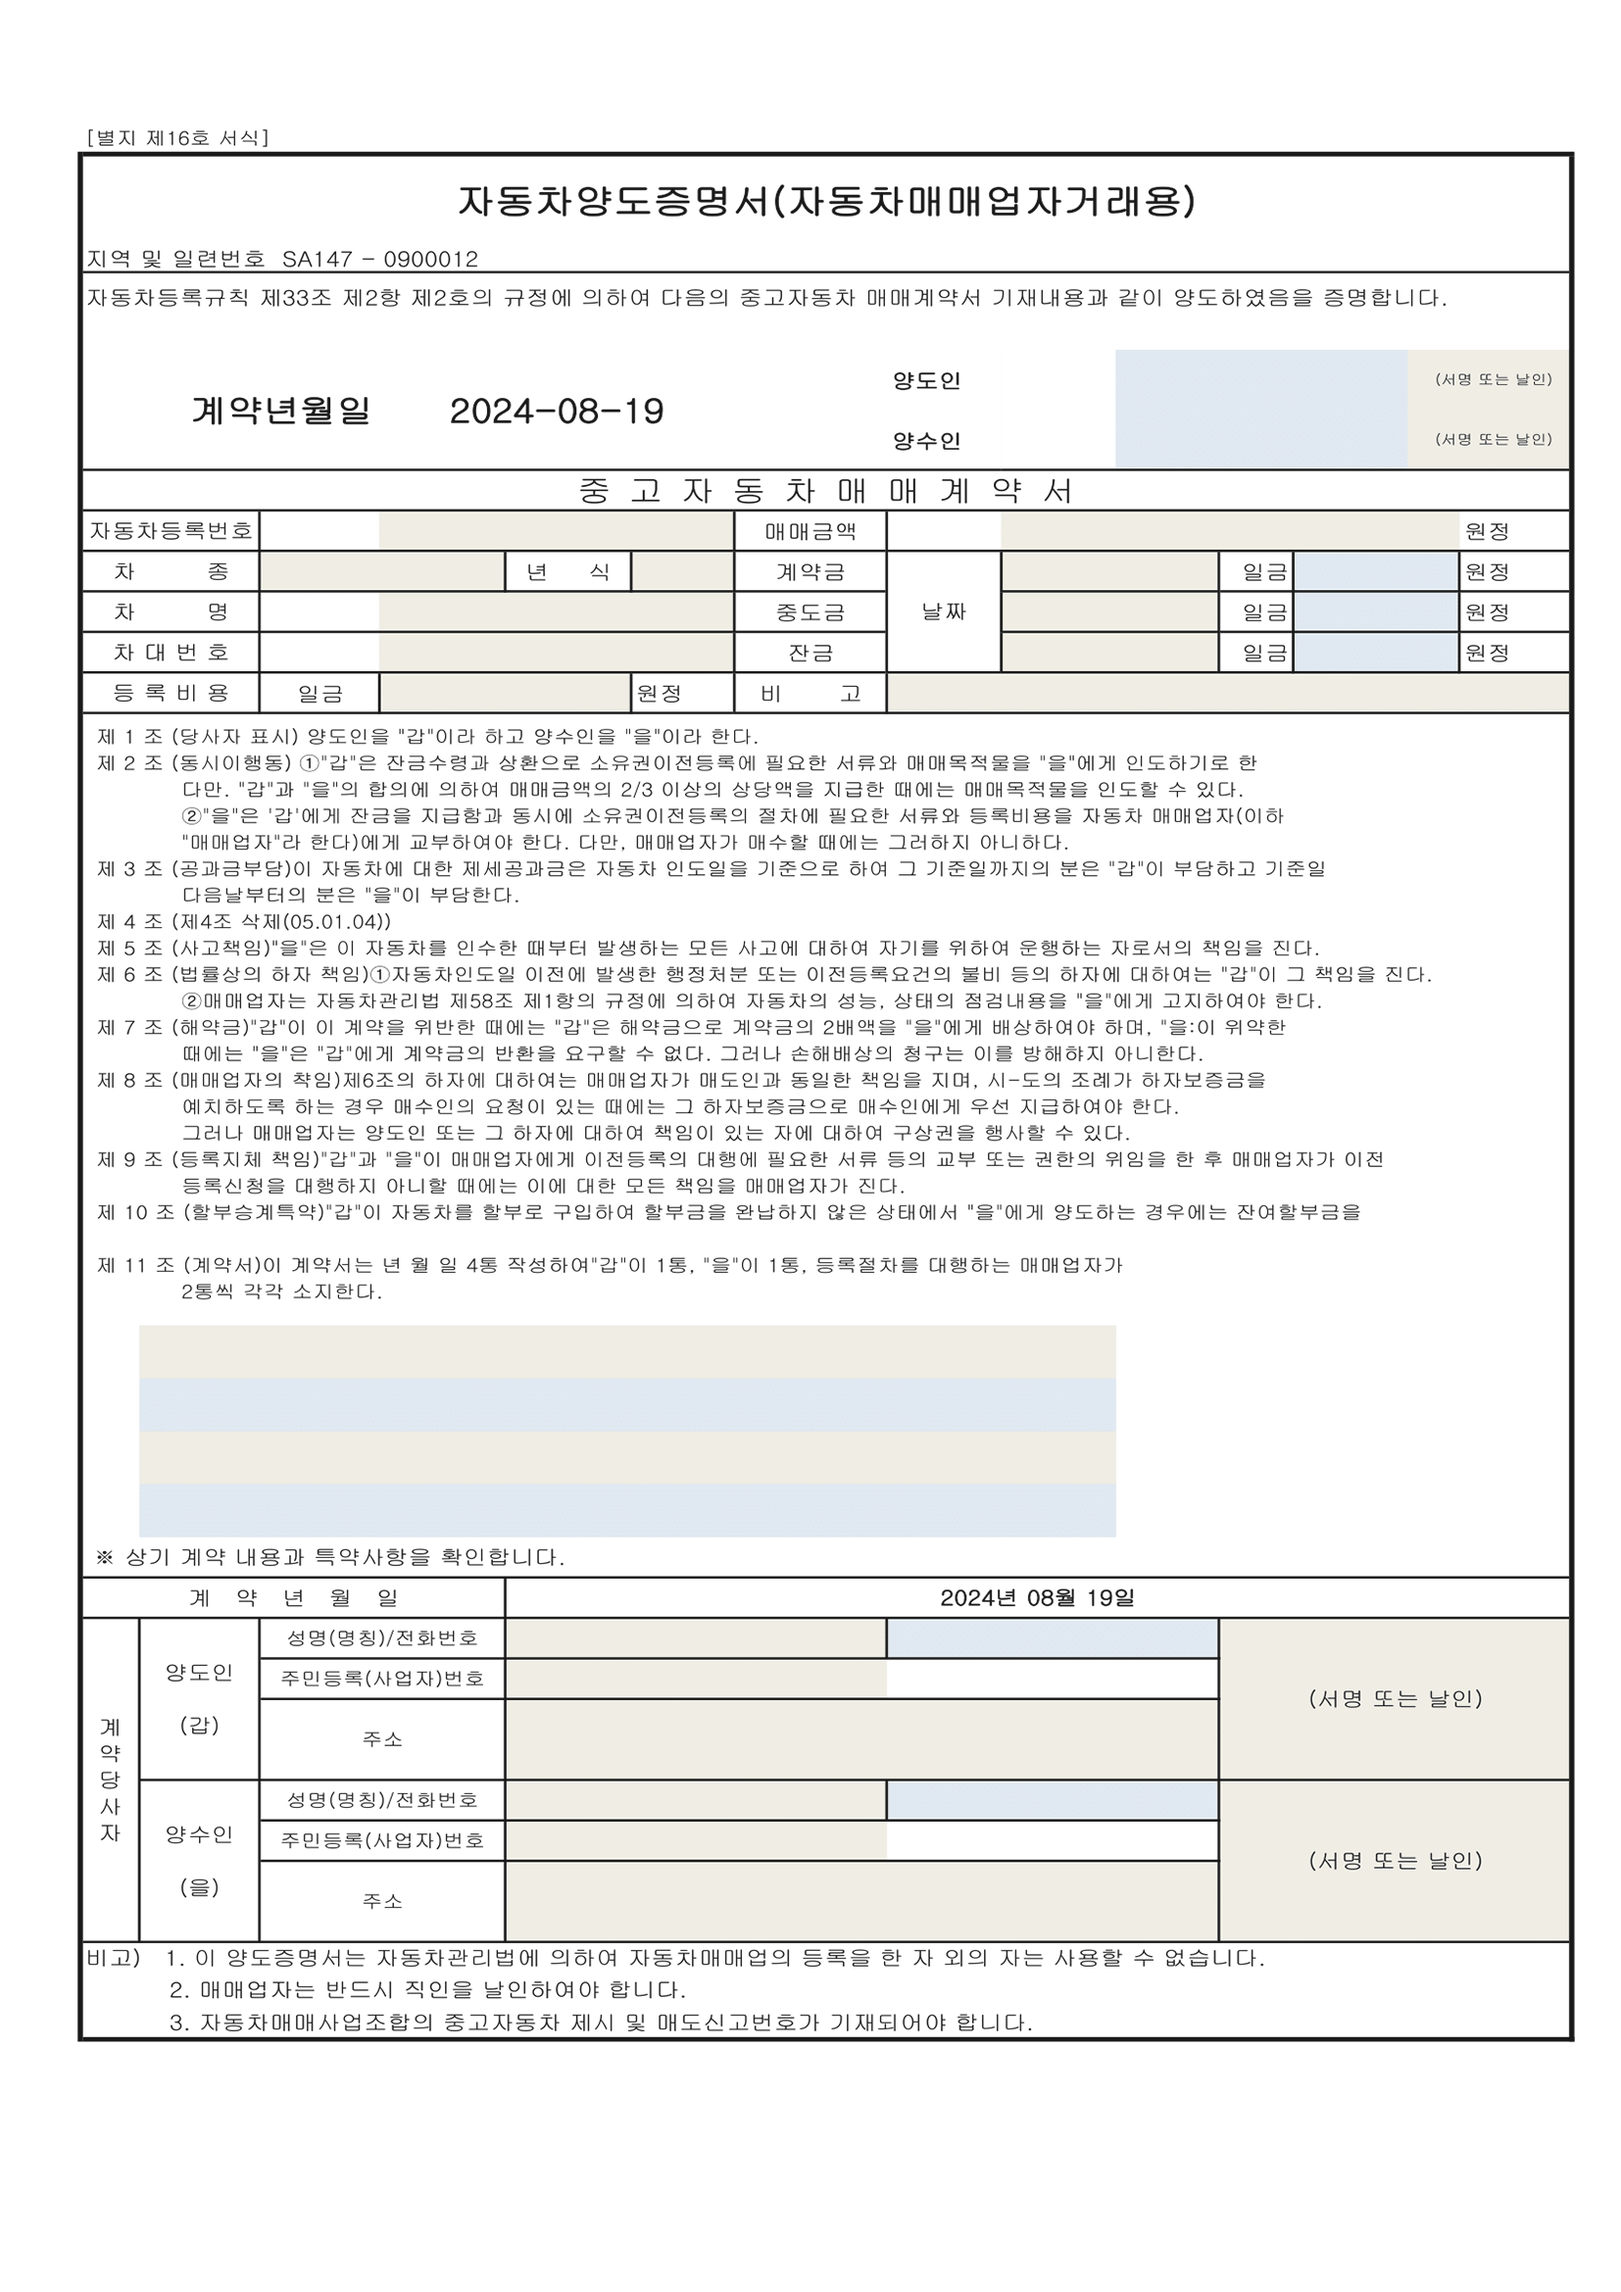
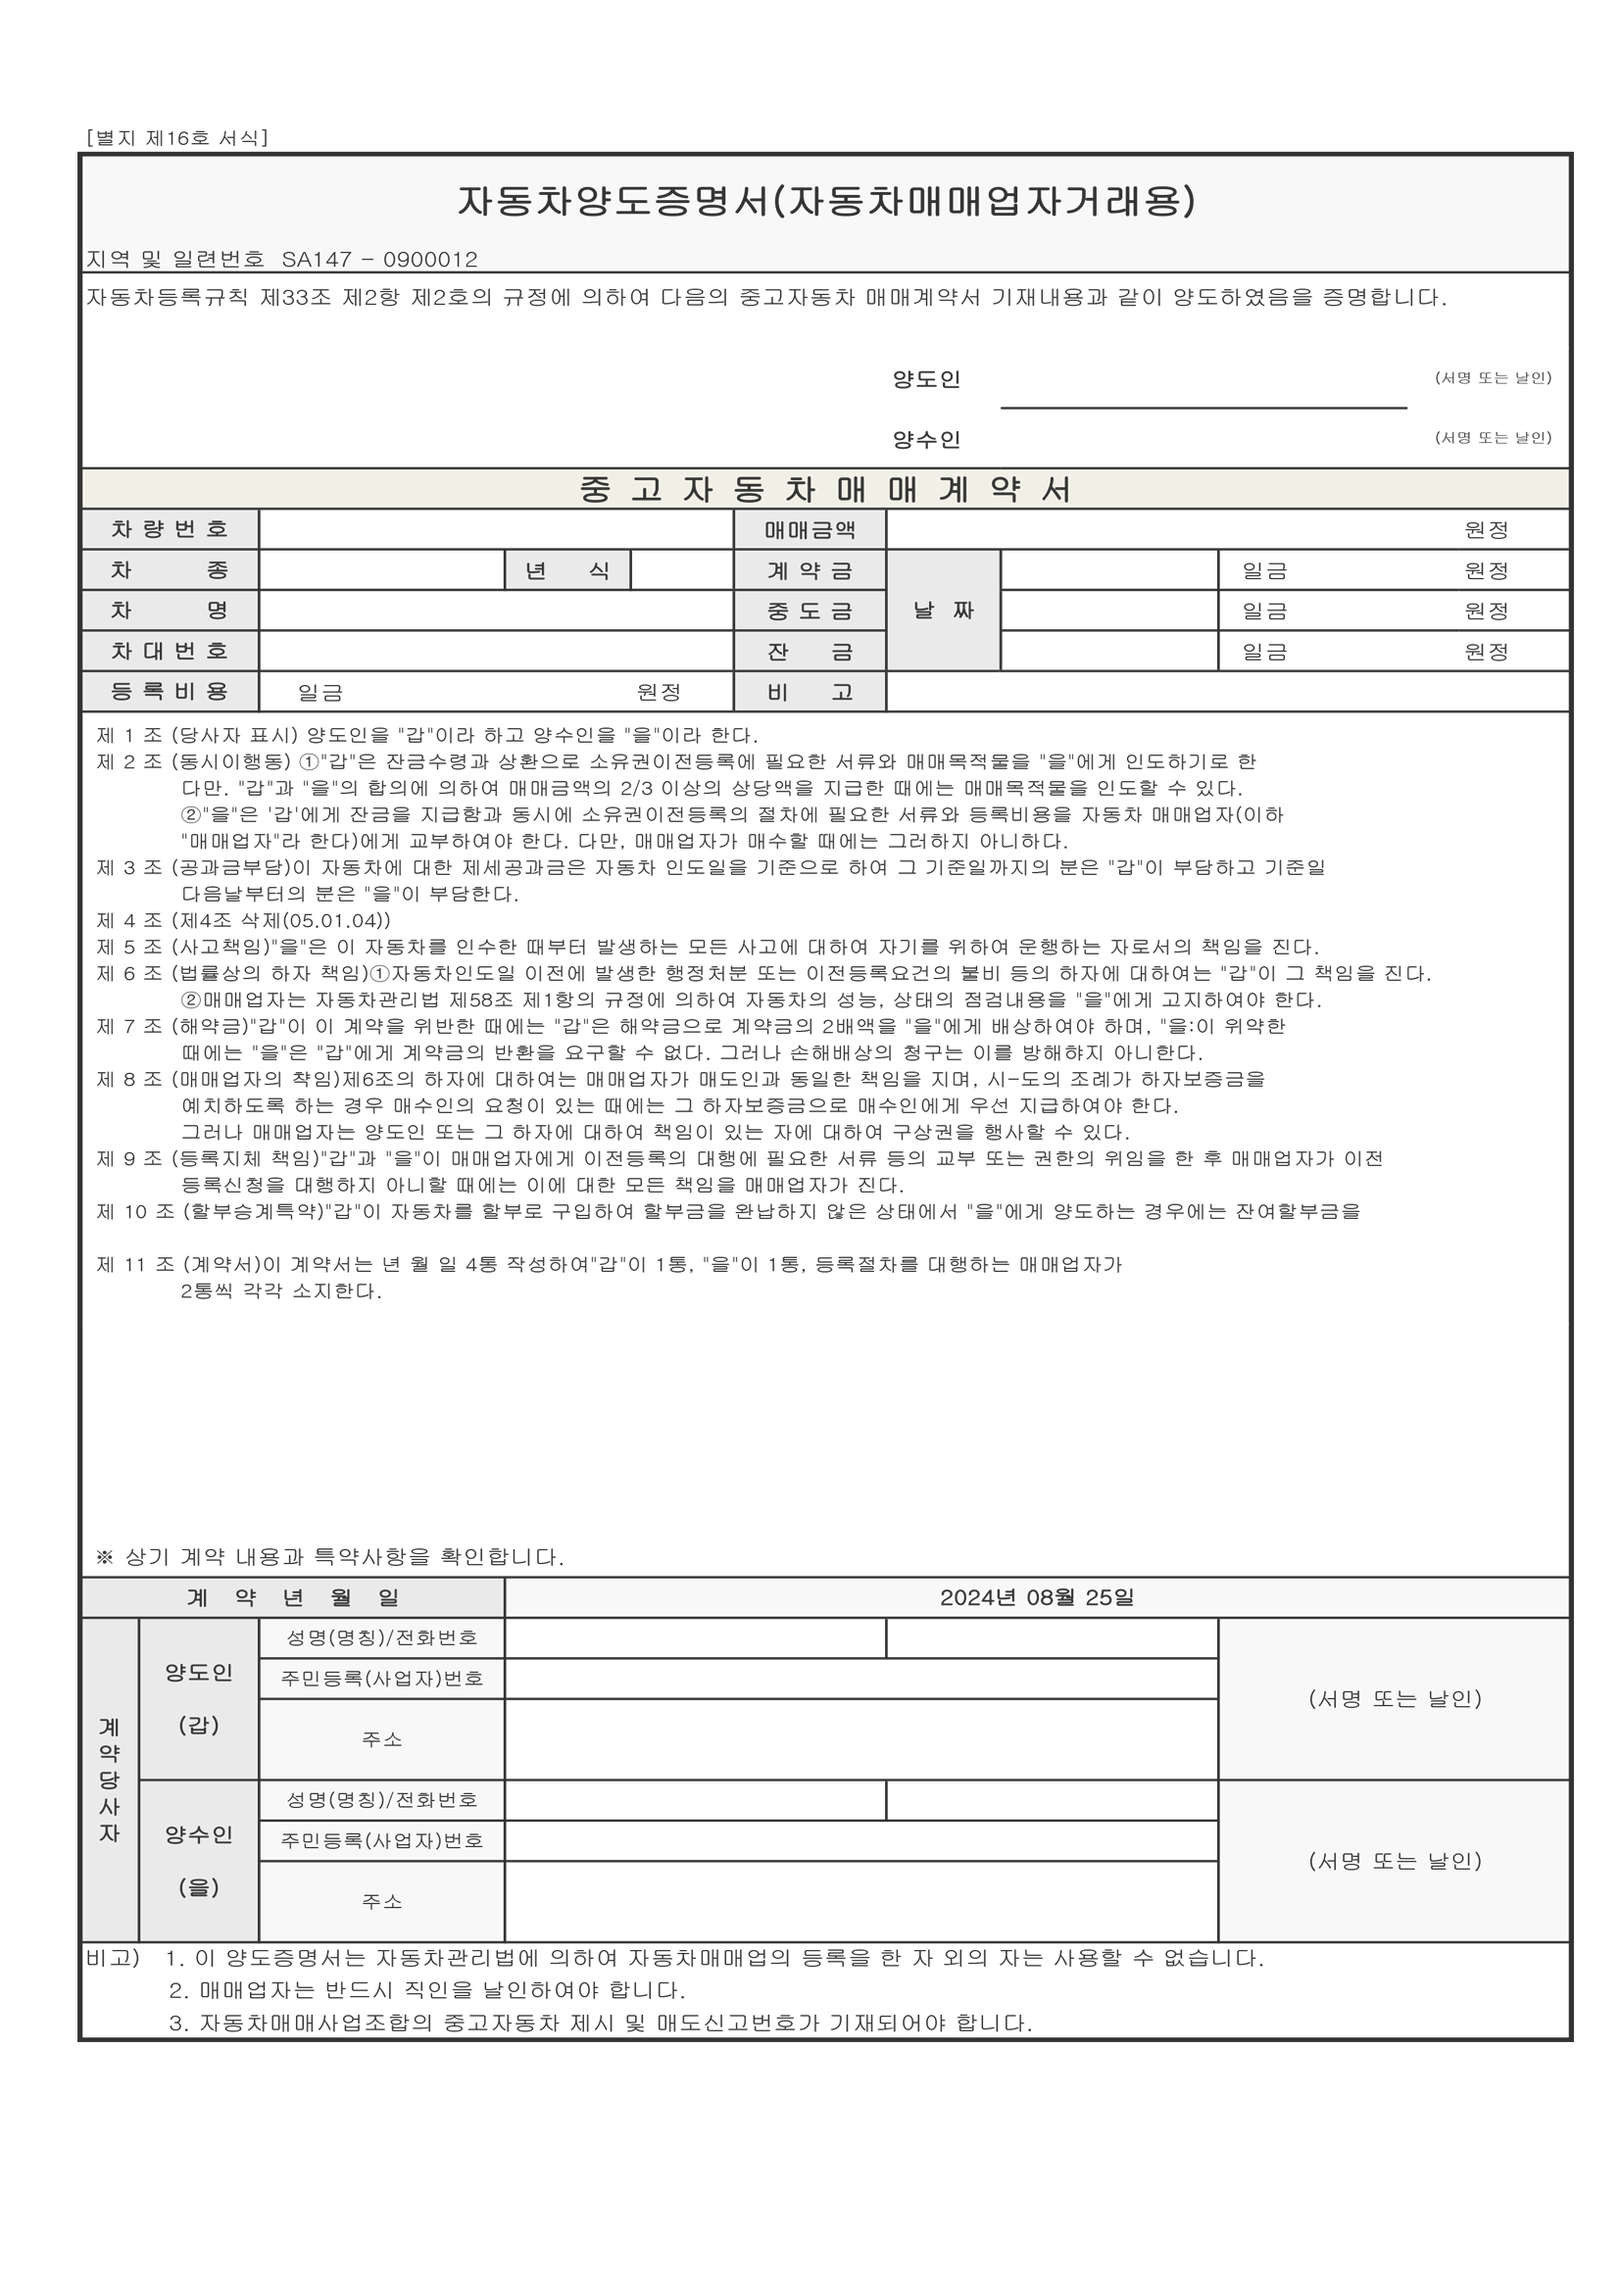
5차 기본 이미지 변경

diff --git a/lib/tmp/contract_img.dart b/lib/tmp/contract_img.dart
@@ -52,7 +52,7 @@ class _ChnageImageState extends State<ChnageImage> {
   }
 
   Future<void> loadContractImage() async {
-    ByteData data = await rootBundle.load('assets/contract_image.png');
+    ByteData data = await rootBundle.load('assets/contract_image5.png');
     final codec = await ui.instantiateImageCodec(data.buffer.asUint8List());
     final frame = await codec.getNextFrame();
     setState(() {

diff --git a/lib/main.dart b/lib/main.dart
@@ -181,7 +181,7 @@ class MyHomePage extends StatelessWidget {
 //   }
 //
 //   Future<void> loadContractImage() async {
-//     ByteData data = await rootBundle.load('assets/contract_image.png');
+//     ByteData data = await rootBundle.load('assets/contract_image5.png');
 //     final codec = await ui.instantiateImageCodec(data.buffer.asUint8List());
 //     final frame = await codec.getNextFrame();
 //

diff --git a/lib/splash.dart b/lib/splash.dart
@@ -204,8 +204,8 @@ String _getCurrentDateString() {
   final year = now.year;
   final month = now.month.toString().padLeft(2, '0');
   final day = now.day.toString().padLeft(2, '0');
-  // return '$year-$month-$day';
-  return '2024년05월05일';
+  return '$year년$month월$day일';
+  // return '2024년05월05일';
 }
 
 Future<ui.Image> _textToImage(
